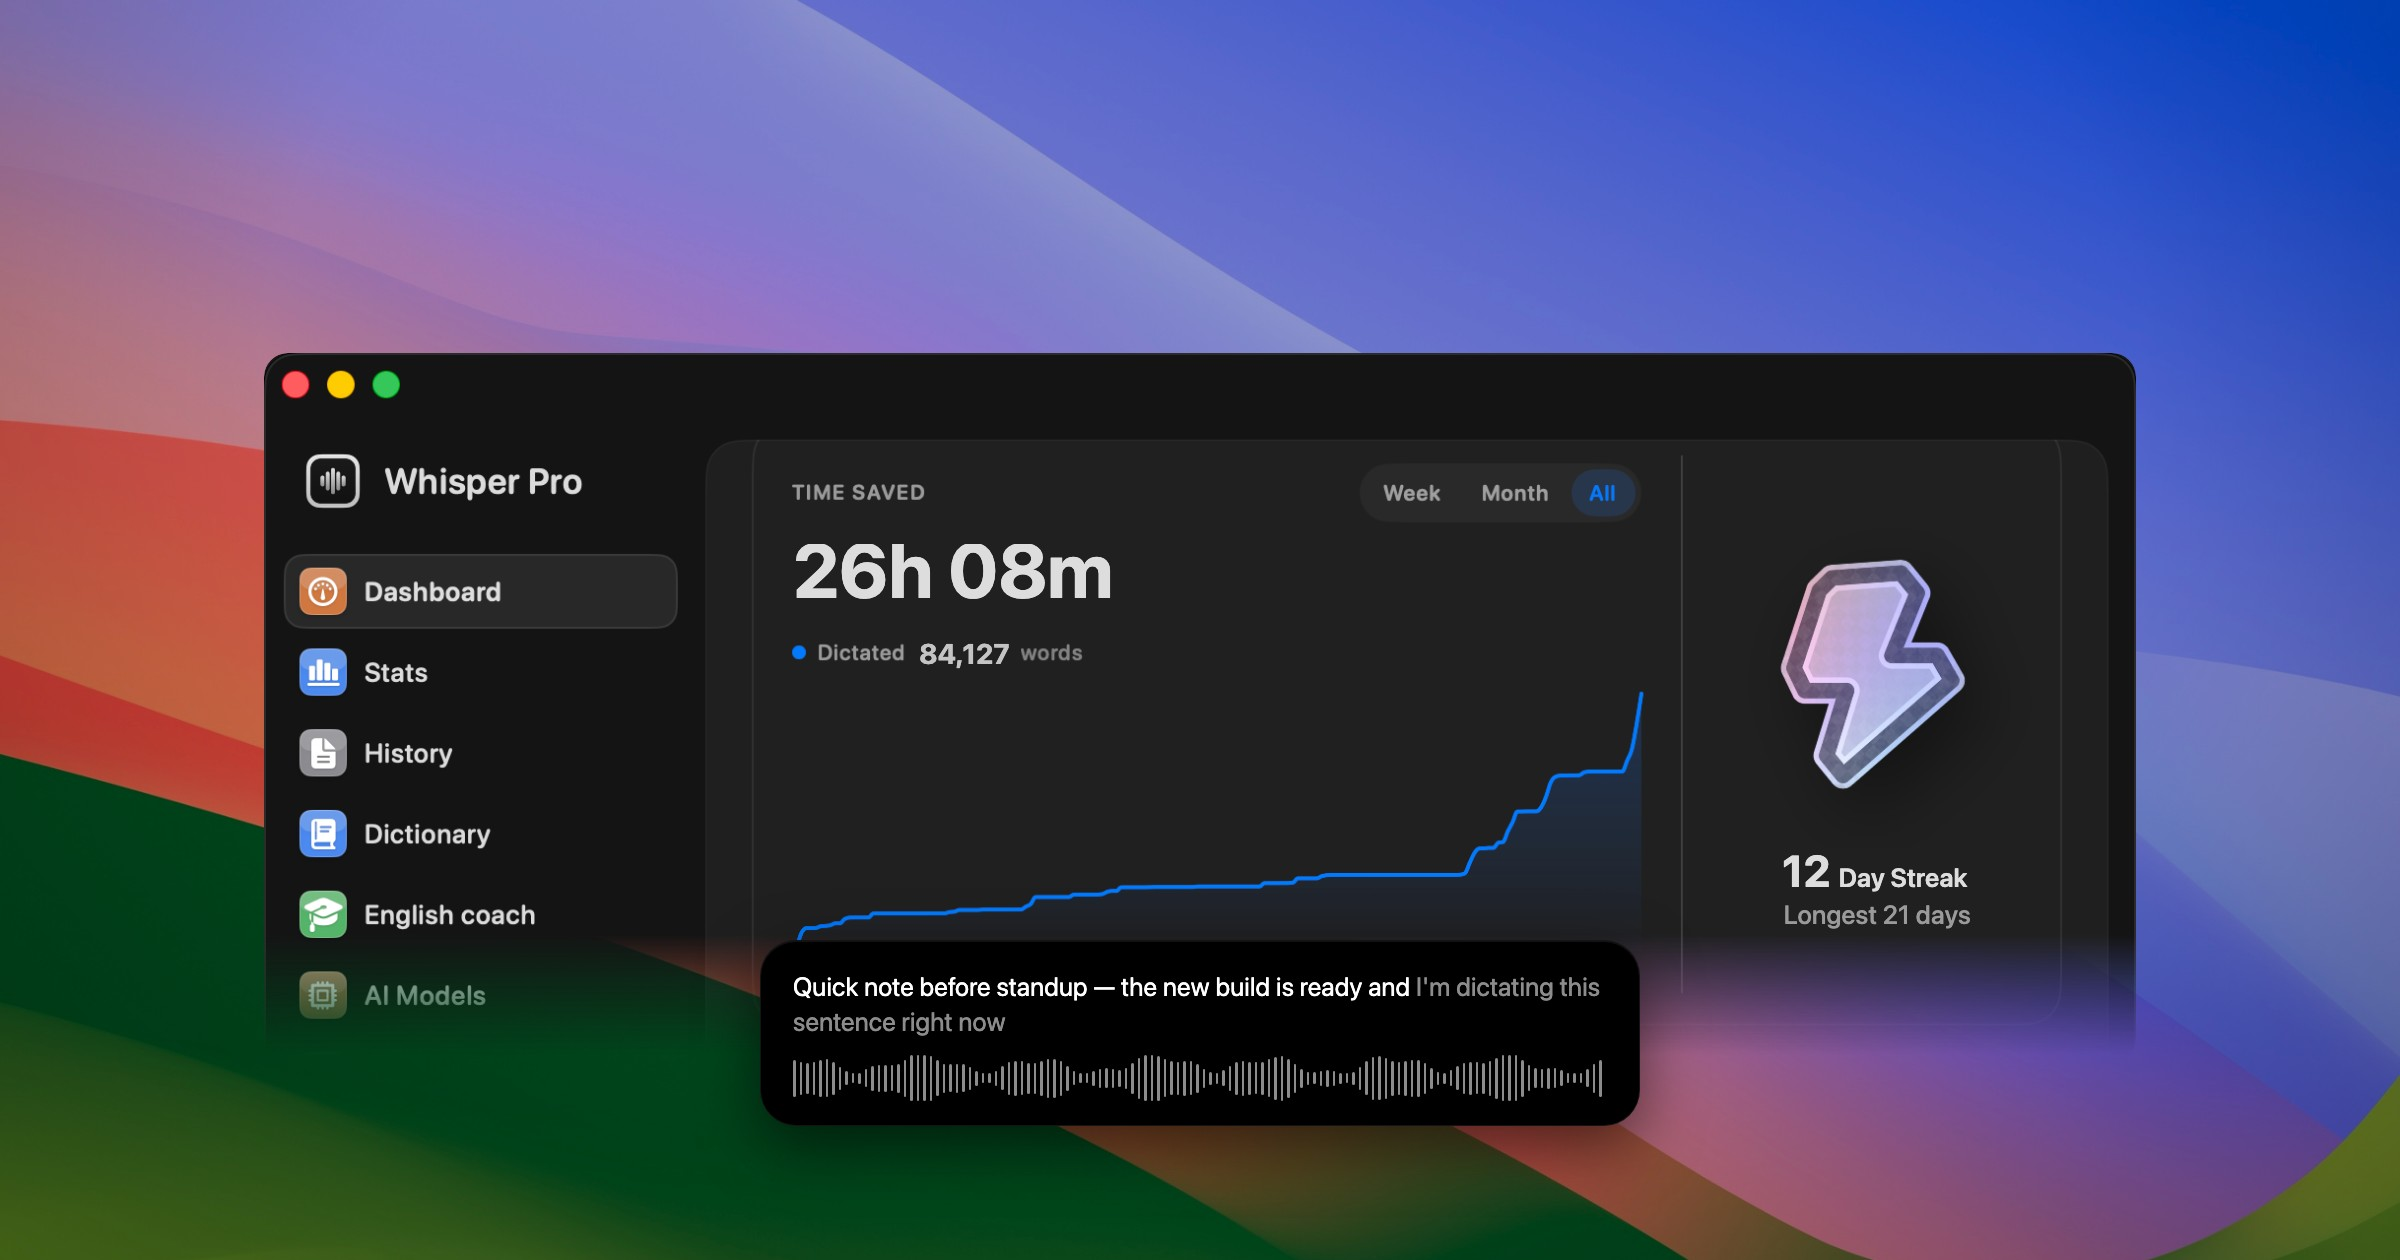
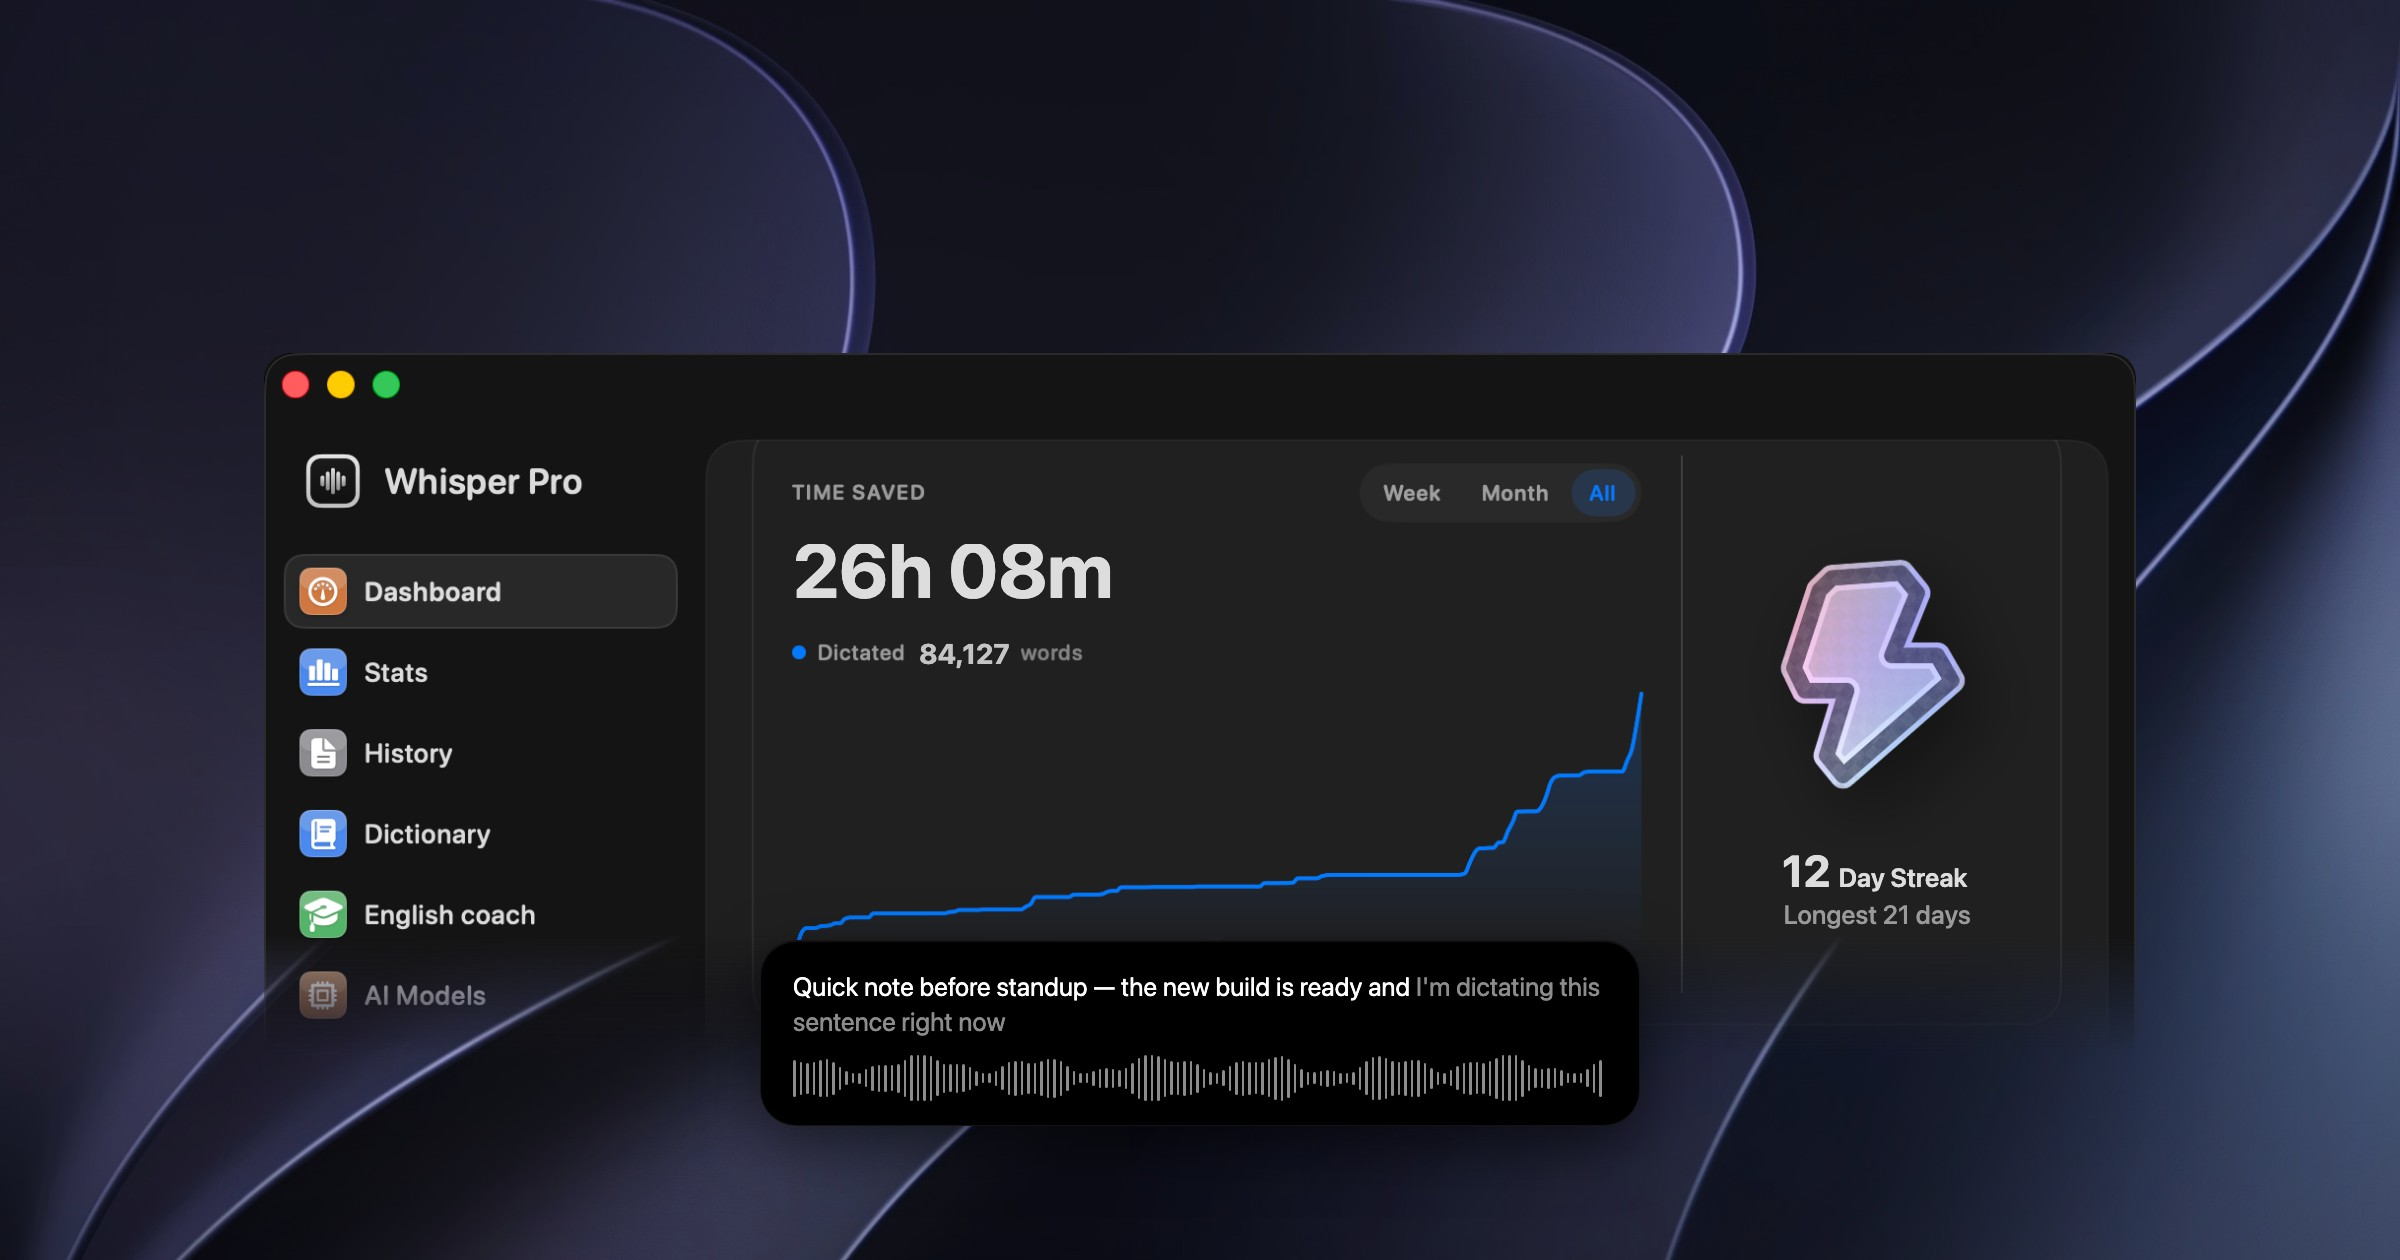
Settings previews: allow a custom stage image from Application Support
Priority: custom PanelPreviewWallpaper.jpg in App Support (author's Golden Gate Dark,
kept out of the repo) -> user's desktop wallpaper -> bundled Sonoma -> gradient.

diff --git a/Whisper Pro/Views/Settings/SettingsView.swift b/Whisper Pro/Views/Settings/SettingsView.swift
@@ -432,11 +432,21 @@ private struct PanelLookPreviewCard: View {
     // URL that isn't a loadable image, so fall back to the bundled-with-macOS Sonoma
     // picture, then to the synthetic gradient.
     private static let systemWallpaper: NSImage? = {
+        // 1) A custom stage image dropped into the app's Application Support folder wins
+        //    (lets the author use a specific wallpaper without shipping it in the repo).
+        let custom = FileManager.default.urls(for: .applicationSupportDirectory, in: .userDomainMask)
+            .first?
+            .appendingPathComponent("com.prakashjoshipax.VoiceInk/PanelPreviewWallpaper.jpg")
+        if let custom, let image = NSImage(contentsOf: custom), image.isValid {
+            return image
+        }
+        // 2) The user's own desktop wallpaper.
         if let screen = NSScreen.main,
            let url = NSWorkspace.shared.desktopImageURL(for: screen),
            let image = NSImage(contentsOf: url), image.isValid {
             return image
         }
+        // 3) The Sonoma picture every macOS ships with.
         return NSImage(contentsOfFile: "/System/Library/Desktop Pictures/Sonoma.heic")
     }()
 